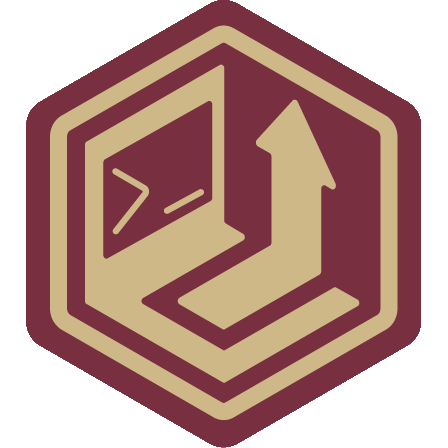
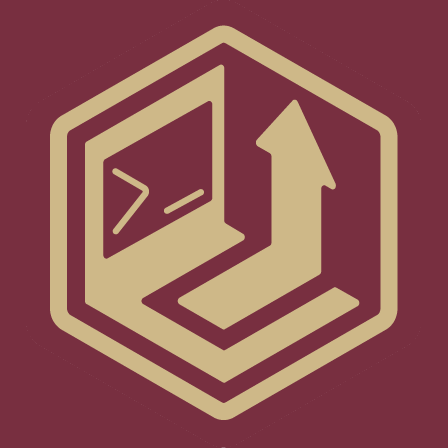
Implement potential school design (this also edits the images to have full backgrounds)

diff --git a/src/pages/SchoolsPage.tsx b/src/pages/SchoolsPage.tsx
@@ -1,9 +1,6 @@
 import { Heading, HeadingLevel } from "@ariakit/react";
 import { Schools } from "@website/data/Schools";
-import clsx from "clsx";
 import { Link } from "react-router-dom";
-
-import styles from "./SchoolsPage.module.scss";
 
 export const SchoolsPage = () => {
   return (
@@ -13,31 +10,42 @@ export const SchoolsPage = () => {
         <HeadingLevel key={school.key}>
           <div
             id={school.key}
-            className={styles.school}
+            className={"flex flex-row pt-8"}
           >
-            <img
-              className={styles.logo}
-              src={school.club.logo}
-              alt={school.club.name}
-            />
-
-            <div
-              className={styles.left}
-            >
-              <Heading>{school.club.name}</Heading>
-              <p>{school.name}</p>
+            <div className={"relative flex aspect-square w-48 p-2"}>
+              <div className={"absolute inset-0 bg-[#1c2e30] rounded-l-full -z-10"}/>
+              <div className={"flex grow bg-[#67abb4] p-1 rounded-full"}>
+                <div className={"flex grow bg-neutral-950 rounded-full"}>
+                  <img
+                    className={"w-full aspect-square rounded-full"}
+                    src={school.club.logo}
+                    alt={school.club.name}
+                  />
+                </div>
+              </div>
             </div>
 
-            <div className={styles.expand}/>
-
             <div
-              className={styles.links}
+              className={"flex flex-row bg-neutral-950 flex-grow"}
             >
-              {school.club.urls.map(url => (
-                <Link key={url.name} to={url.url} className={clsx(styles.link, "striped-link")}>
-                  {url.icon} {url.name}
-                </Link>
-              ))}
+              <div
+                className={"flex flex-col bg-neutral-950 p-4"}
+              >
+                <Heading className={"text-6xl"}>{school.club.name}</Heading>
+                <p>{school.name}</p>
+              </div>
+
+              <div className={"flex-grow"}/>
+
+              <div
+                className={"flex flex-col bg-[#1c2e30] p-4 w-36 text-center"}
+              >
+                {school.club.urls.map(url => (
+                  <Link key={url.name} to={url.url} className={"text-xl pb-2"}>
+                    {url.icon} {url.name}
+                  </Link>
+                ))}
+              </div>
             </div>
           </div>
         </HeadingLevel>
